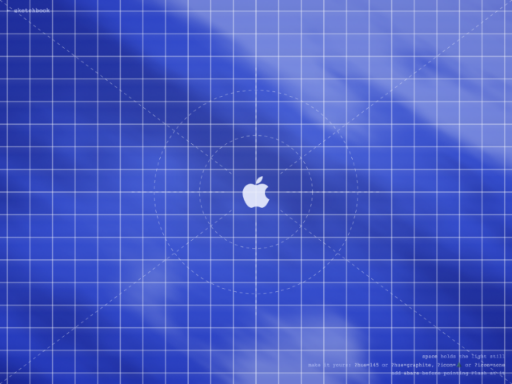
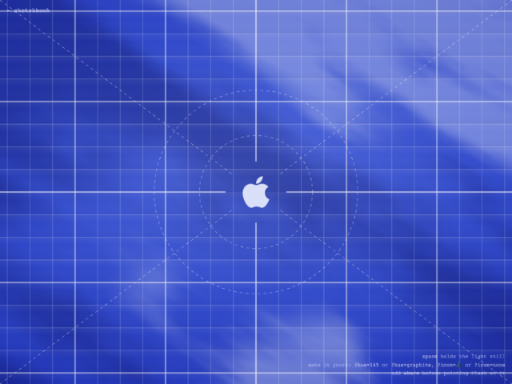
fix(blueprint): the grid learns its two weights, and the crosshair is the grid
Looked closer at the original: every fourth rule is heavy, anchored so
the pair through the centre are the heavy ones — and that pair IS the
crosshair, solid, stopping short of the mark like the diagonals do.
The dashed overlay crosshair goes away; dashes belong only to the
diagonals and the circles.

diff --git a/sketches/2026-08-blueprint/sketch.js b/sketches/2026-08-blueprint/sketch.js
@@ -104,24 +104,46 @@ function rebuild() {
 
   // The lines are drawn whole, not as pattern-tile edges: a stroke on a tile
   // edge gets its glow clipped by the tile boundary and every line comes out
-  // lopsided. Walking out from the centre also makes the crosshair share its
-  // coordinates with the grid exactly.
-  const glow = el('g', { stroke: 'rgba(255,255,255,0.15)', 'stroke-width': 3.2 }, svg);
-  const core = el('g', { stroke: 'rgba(255,255,255,0.6)', 'stroke-width': 1.2 }, svg);
-  for (const g of [glow, core]) {
-    for (let x = cx % cell; x <= w; x += cell) el('line', { x1: x, y1: 0, x2: x, y2: h }, g);
-    for (let y = cy % cell; y <= h; y += cell) el('line', { x1: 0, y1: y, x2: w, y2: y }, g);
+  // lopsided. The grid carries two weights like the original — a heavy rule
+  // every fourth line, anchored so the two through the centre are heavy.
+  // Those two centre rules are the crosshair, and like everything drawn near
+  // the middle they stop short of the mark.
+  const hole = icon === 'none' ? 0 : 1.35 * cell;
+  const minor = el('g', { stroke: 'rgba(255,255,255,0.34)', 'stroke-width': 1 }, svg);
+  const majorGlow = el('g', { stroke: 'rgba(255,255,255,0.14)', 'stroke-width': 4.5 }, svg);
+  const major = el('g', { stroke: 'rgba(255,255,255,0.62)', 'stroke-width': 2 }, svg);
+  const rule = (fixed, vertical, group, gap) => {
+    const [a, b, mid] = vertical ? ['x', 'y', cy] : ['y', 'x', cx];
+    const line = (from, to) =>
+      el('line', { [`${a}1`]: fixed, [`${a}2`]: fixed, [`${b}1`]: from, [`${b}2`]: to }, group);
+    if (gap) {
+      line(0, mid - gap);
+      line(mid + gap, vertical ? h : w);
+    } else {
+      line(0, vertical ? h : w);
+    }
+  };
+  for (const vertical of [true, false]) {
+    const [centre, extent] = vertical ? [cx, w] : [cy, h];
+    for (let k = -Math.ceil(centre / cell); centre + k * cell <= extent; k++) {
+      const at = centre + k * cell;
+      const gap = k === 0 ? hole : 0;
+      if (k % 4 === 0) {
+        rule(at, vertical, majorGlow, gap);
+        rule(at, vertical, major, gap);
+      } else {
+        rule(at, vertical, minor, 0);
+      }
+    }
   }
 
-  // Construction marks: corner-to-corner diagonals, two concentric circles,
-  // and a crosshair that runs a little past the outer circle. Every line
-  // stops short of the mark being drawn — the original leaves its subject
-  // room, so nothing intersects the icon.
+  // Construction marks — only the diagonals and circles, and only dashed:
+  // the crosshair is the pair of heavy grid rules above. The diagonals stop
+  // short of the mark the same way those do.
   const marks = el('g', {
     fill: 'none', stroke: 'rgba(255,255,255,0.55)',
     'stroke-width': 1.1, 'stroke-dasharray': '7 7',
   }, svg);
-  const hole = icon === 'none' ? 0 : 1.35 * cell;
   const diag = (x, y) => {
     const len = Math.hypot(cx - x, cy - y);
     const ux = (cx - x) / len;
@@ -133,11 +155,6 @@ function rebuild() {
   diag(w, 0);
   el('circle', { cx, cy, r: 2.5 * cell }, marks);
   el('circle', { cx, cy, r: 4.5 * cell }, marks);
-  const reach = 5.5 * cell;
-  el('line', { x1: cx - reach, y1: cy, x2: cx - hole, y2: cy }, marks);
-  el('line', { x1: cx + hole, y1: cy, x2: cx + reach, y2: cy }, marks);
-  el('line', { x1: cx, y1: cy - reach, x2: cx, y2: cy - hole }, marks);
-  el('line', { x1: cx, y1: cy + hole, x2: cx, y2: cy + reach }, marks);
 
   if (icon === null) {
     const logoH = 1.6 * cell;
